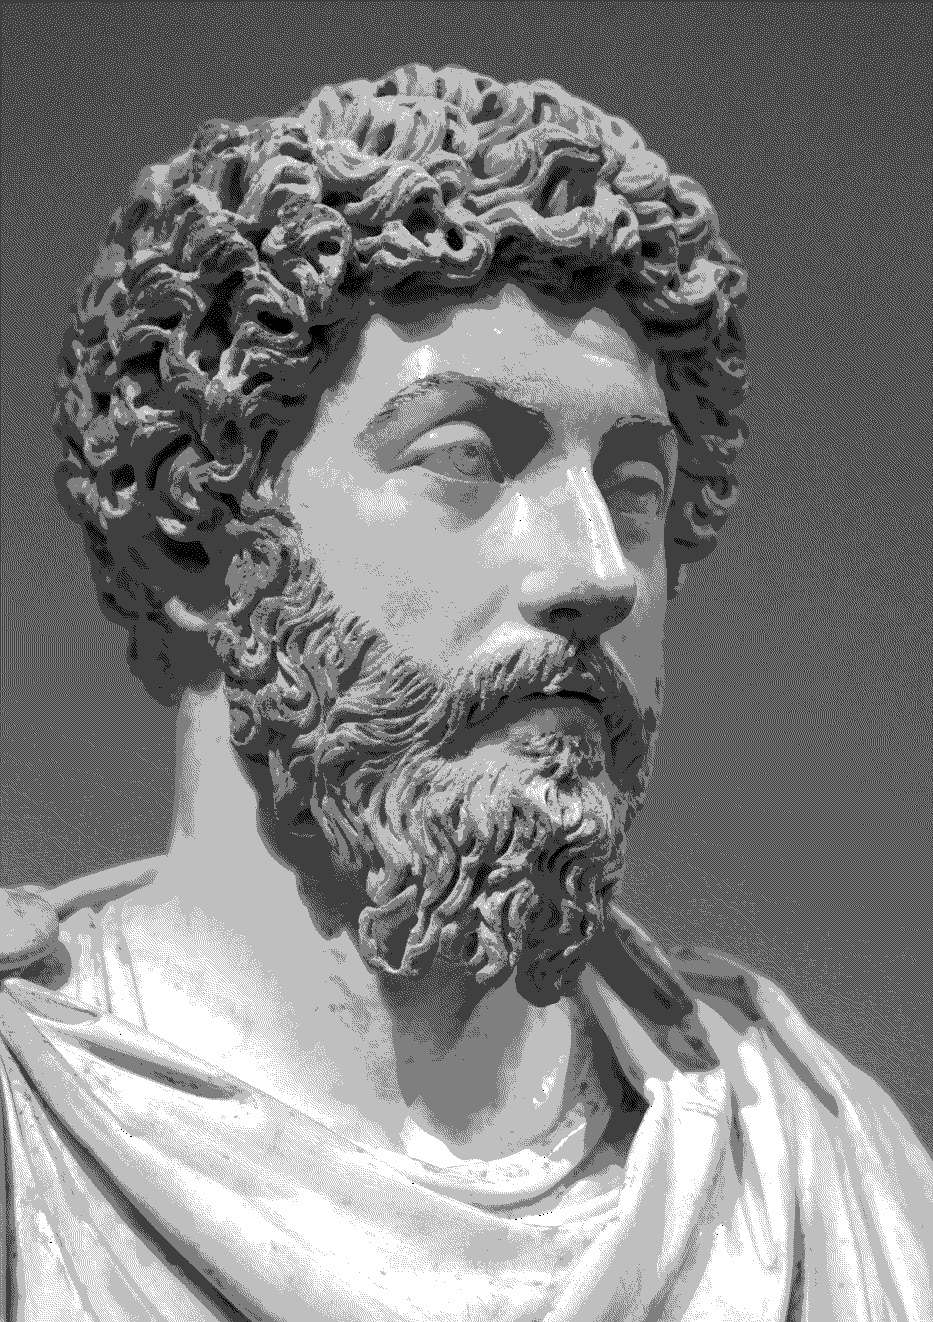
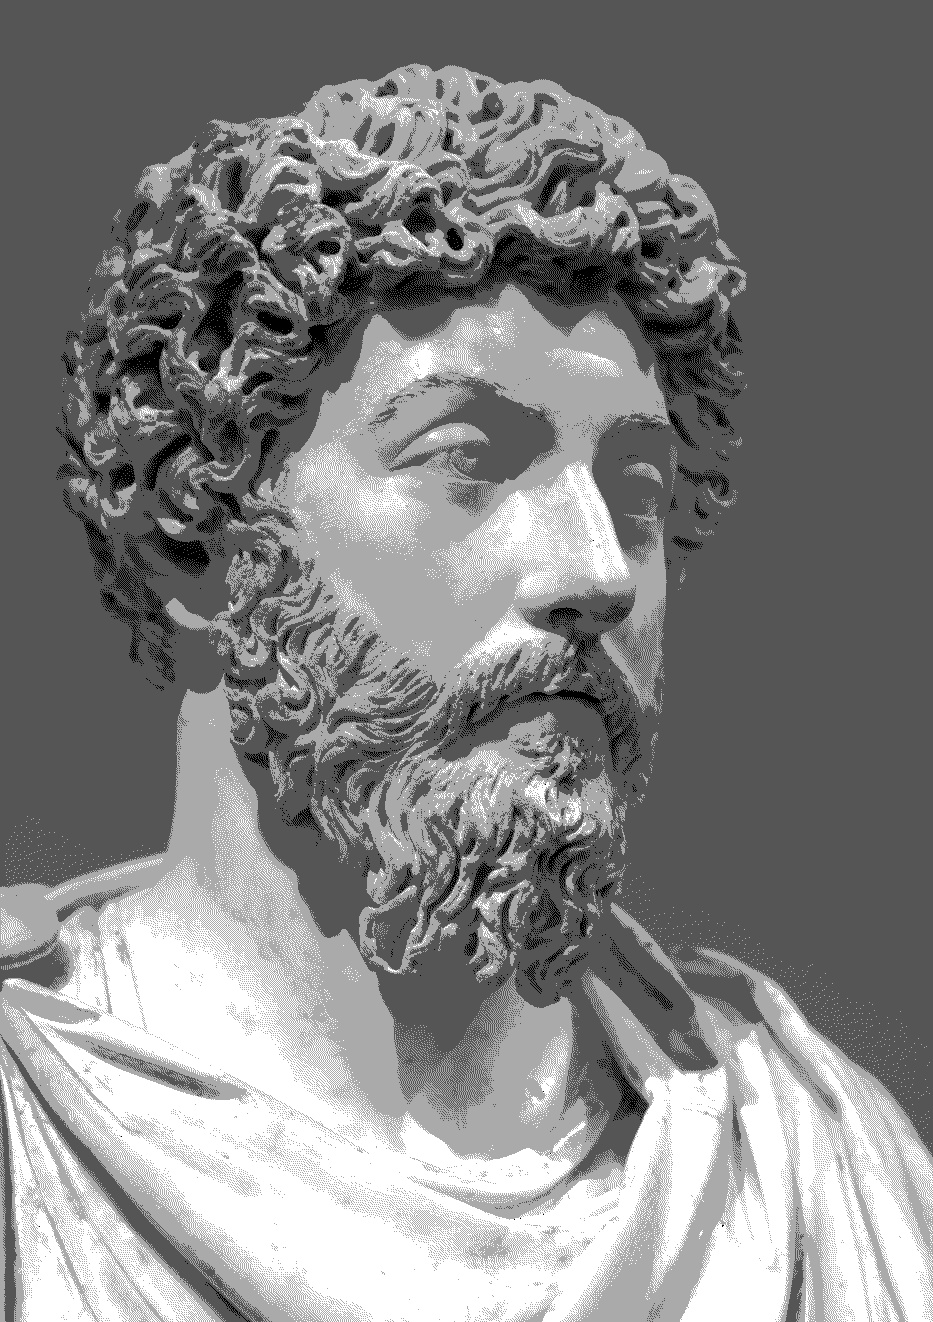
2 lab: Added ditheringToNbpp()

diff --git a/cmd/2_lab/main.go b/cmd/2_lab/main.go
@@ -1,8 +1,8 @@
 package main
 
 import (
-	"fmt"
 	"gocv.io/x/gocv"
+	"math"
 )
 
 func rgb2Grayscale(originImg gocv.Mat) gocv.Mat {
@@ -59,7 +59,7 @@ func ditheringTo2bpp(pixVal uint8) (uint8, int) {
 	} else if pixVal <= 31 {
 		return 0, int(pixVal)
 	} else if pixVal <= 95 {
-		return 63, int(pixVal) - 63
+		return 85, int(pixVal) - 63
 	} else if pixVal <= 159 {
 		return 127, int(pixVal) - 127
 	} else if pixVal <= 223 {
@@ -69,6 +69,37 @@ func ditheringTo2bpp(pixVal uint8) (uint8, int) {
 	} else {
 		return 255, 0
 	}
+}
+func ditheringToNbpp(pixVal uint8, n float64) (uint8, int) {
+	// Число точек квантования
+	numPoints := math.Pow(2, n) - 1
+	step := int(255 / numPoints)
+	halfStep := uint8(step / 2)
+	intervalSlice := []uint8{}
+
+	// Создание интервалов квантования
+	for i := 0; i <= 255; i += step {
+		intervalSlice = append(intervalSlice, uint8(i))
+	}
+
+	// Нахождение интервала, к которому принадлежит значение пикселя
+	for i := 0; i < len(intervalSlice)-1; i++ {
+		low := intervalSlice[i]
+		high := intervalSlice[i+1]
+
+		// Проверка, в какой интервал попадает пиксель
+		if pixVal >= low && pixVal < high {
+			quantizedVal := low
+			if pixVal-low > halfStep {
+				quantizedVal = high
+			}
+			err := int(pixVal) - int(quantizedVal)
+			return quantizedVal, err
+		}
+	}
+
+	// Если пиксель равен 255, возвращаем верхний предел
+	return 255, 0
 }
 
 // clamp limiting value to interval [0,255]
@@ -92,7 +123,6 @@ func ditheringFloydSteinberg() {
 
 	wigth := originImg.Cols()
 	height := originImg.Rows()
-	fmt.Println(wigth, height)
 	grayImg := rgb2Grayscale(originImg)
 	defer grayImg.Close()
 
@@ -102,7 +132,7 @@ func ditheringFloydSteinberg() {
 		for x := 0; x < wigth; x++ {
 			index := wigth*y + x
 			currPixVal := processingData[index]
-			currPixValResult, err := ditheringTo2bpp(currPixVal)
+			currPixValResult, err := ditheringToNbpp(currPixVal, 2)
 			if (x < wigth-1) && (y < height-1) && (x > 0) {
 				processingData[index] = currPixValResult
 				processingData[index+1] += clamp((7 * err) / 16)
